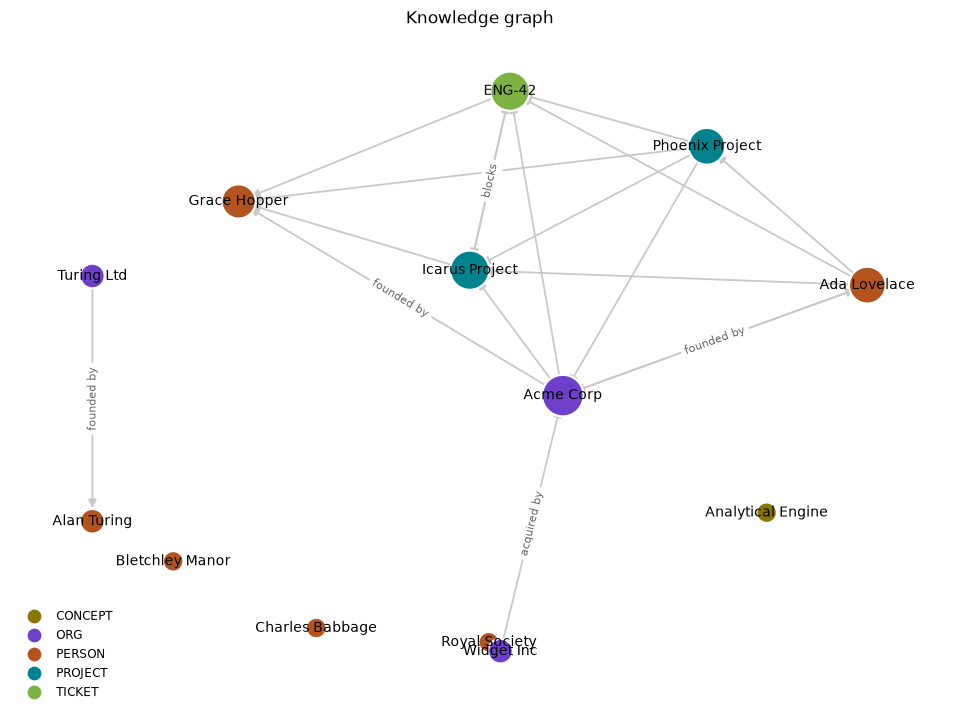
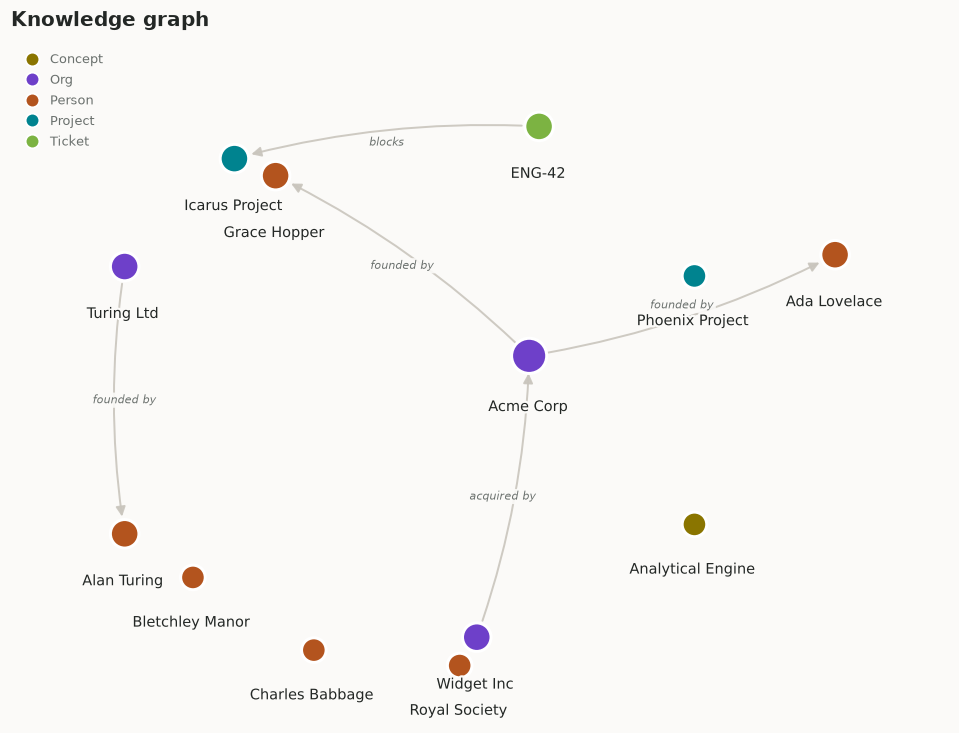
Redesign library plots to publication quality
plot_graph:
- Only typed relations are drawn by default; generic related_to
  co-occurrence edges are excluded from the drawing (include_related=True
  restores them) — they were the grey mesh drowning the signal.
- Curved edges with proper arrowheads; italic predicate labels on a soft
  ground chip; node labels sit below nodes with a paper-color halo and
  greedy collision nudging, never on top of the mark.
- Warm paper background matching the app, left-aligned bold title,
  frameless title-cased legend, comfortable margins.

plot_timeline:
- Year-span annotations at the end of each lifeline (1942–2024).
- Round-capped span lines, paper-ring dots, recessive grid, no spines,
  left-aligned bold title, x padding so annotations never clip.

Both README figures regenerated from the demo vault.

Claude-Session: https://claude.ai/code/session_01QVbxD1gd3gsC6zXKE6L3ya

diff --git a/backend/graphier/api.py b/backend/graphier/api.py
@@ -149,46 +149,103 @@ class VaultSession:
         edge_labels: bool = True,
         seed: int = 7,
         exclude_labels: tuple[str, ...] = ("UNKNOWN", "DATE"),
+        include_related: bool = False,
     ):
         """Draw the knowledge graph. Returns the matplotlib Axes.
 
-        DATE nodes are excluded from the drawing by default (they connect
-        to everything and add clutter, and the timeline plot covers time);
-        pass exclude_labels=("UNKNOWN",) to include them.
+        Defaults are opinionated for legibility: UNKNOWN and DATE nodes and
+        generic co-occurrence ("related_to") edges are excluded from the
+        drawing — the data keeps them; pass exclude_labels=("UNKNOWN",) /
+        include_related=True to draw everything.
         """
         plt = self._plt()
+        import matplotlib.patheffects as pe
         import networkx as nx
 
         g = self.to_networkx(exclude_labels=exclude_labels)
+        if not include_related:
+            g.remove_edges_from(
+                [(u, v) for u, v, d in g.edges(data=True) if d["predicate"] == "related_to"]
+            )
+
         if ax is None:
             _, ax = plt.subplots(figsize=(11, 8))
+        fig = ax.figure
+        fig.set_facecolor("#fbfaf8")
+        ax.set_facecolor("#fbfaf8")
+
         try:
             pos = nx.kamada_kawai_layout(g.to_undirected())
         except Exception:  # disconnected corner cases fall back to spring
             pos = nx.spring_layout(g, seed=seed, k=3.0 / max(1, len(g)) ** 0.5, iterations=200)
+
+        ink, ink_soft, line = "#232725", "#6b716e", "#c9c5bd"
+        halo = [pe.withStroke(linewidth=3, foreground="#fbfaf8")]
+
+        nx.draw_networkx_edges(
+            g, pos, ax=ax, edge_color=line, width=1.3, alpha=0.9,
+            arrows=True, arrowsize=13, arrowstyle="-|>",
+            connectionstyle="arc3,rad=0.08", node_size=520,
+        )
         colors = [label_color(g.nodes[n]["label"]) for n in g]
-        sizes = [180 + 80 * g.degree(n) for n in g]
-        nx.draw_networkx_edges(g, pos, ax=ax, edge_color="#c9c9c9", width=1.2,
-                               arrows=True, arrowsize=11)
-        nx.draw_networkx_nodes(g, pos, ax=ax, node_color=colors, node_size=sizes,
-                               edgecolors="white", linewidths=1.4)
-        nx.draw_networkx_labels(g, pos, ax=ax, font_size=9)
+        sizes = [260 + 90 * g.degree(n) for n in g]
+        nx.draw_networkx_nodes(
+            g, pos, ax=ax, node_color=colors, node_size=sizes,
+            edgecolors="white", linewidths=2.0,
+        )
+
+        # Labels sit below their node with a halo, never on top of it, and
+        # get greedily nudged apart when two would collide.
+        placed: list[tuple[float, float]] = []
+        xs = [p[0] for p in pos.values()]
+        ys = [p[1] for p in pos.values()]
+        span_x = (max(xs) - min(xs)) or 1.0
+        span_y = (max(ys) - min(ys)) or 1.0
+        for node in sorted(g, key=lambda n: -g.degree(n)):
+            x, y = pos[node]
+            ly = y - 0.045 * span_y - (sizes[list(g).index(node)] ** 0.5) * 0.0016 * span_y
+            for px, py in placed:
+                if abs(x - px) < 0.14 * span_x and abs(ly - py) < 0.045 * span_y:
+                    ly = py - 0.05 * span_y
+            placed.append((x, ly))
+            ax.text(
+                x, ly, node, ha="center", va="top", fontsize=9.5, color=ink,
+                path_effects=halo, zorder=6,
+            )
+
         if edge_labels:
-            labels = {(u, v): d["predicate"].replace("_", " ")
-                      for u, v, d in g.edges(data=True) if d["predicate"] != "related_to"}
-            nx.draw_networkx_edge_labels(g, pos, ax=ax, edge_labels=labels,
-                                         font_size=7, font_color="#666666")
+            labels = {
+                (u, v): d["predicate"].replace("_", " ")
+                for u, v, d in g.edges(data=True)
+                if d["predicate"] != "related_to"
+            }
+            texts = nx.draw_networkx_edge_labels(
+                g, pos, ax=ax, edge_labels=labels, font_size=7.5,
+                font_color=ink_soft, rotate=False,
+                bbox={"boxstyle": "round,pad=0.15", "fc": "#fbfaf8", "ec": "none", "alpha": 0.9},
+            )
+            for t in texts.values():
+                t.set_fontstyle("italic")
+
         present = sorted({g.nodes[n]["label"] for n in g})
-        handles = [plt.Line2D([], [], marker="o", linestyle="", color=label_color(l),
-                              label=l, markersize=8) for l in present]
-        ax.legend(handles=handles, loc="lower left", frameon=False, fontsize=8)
+        handles = [
+            plt.Line2D([], [], marker="o", linestyle="", color=label_color(l),
+                       markeredgecolor="white", markeredgewidth=1.2,
+                       label=l.title(), markersize=9)
+            for l in present
+        ]
+        ax.legend(handles=handles, loc="upper left", frameon=False, fontsize=8.5,
+                  labelcolor=ink_soft, handletextpad=0.4, borderaxespad=0.2)
         ax.set_axis_off()
-        ax.set_title("Knowledge graph", fontsize=11)
+        ax.margins(0.10)
+        ax.set_title("Knowledge graph", fontsize=13, color=ink, loc="left",
+                     fontweight="bold", pad=12)
         return ax
 
     def plot_timeline(self, ax=None, max_rows: int = 8):
         """Draw entity lifelines over time. Returns the matplotlib Axes."""
         plt = self._plt()
+        import matplotlib.patheffects as pe
 
         events = self.timeline()
         if not events:
@@ -198,32 +255,50 @@ class VaultSession:
             y, m, d = e["sort_key"]
             return y + (m - 1) / 12 if m else y + 0.5
 
-        rows: dict[tuple[str, str], list[tuple[float, str]]] = {}
+        rows: dict[tuple[str, str], list[float]] = {}
         for e in events:
             for ent in e["entities"]:
-                rows.setdefault((ent["text"], ent["label"]), []).append(
-                    (t_of(e), e["sentence"])
-                )
+                rows.setdefault((ent["text"], ent["label"]), []).append(t_of(e))
         top = sorted(rows.items(), key=lambda kv: -len(kv[1]))[:max_rows]
-        top.sort(key=lambda kv: kv[1][0][0])
+        top.sort(key=lambda kv: kv[1][0])
 
+        ink, ink_soft, grid = "#232725", "#6b716e", "#e7e3db"
         if ax is None:
-            _, ax = plt.subplots(figsize=(10, 0.6 * len(top) + 1.2))
-        for i, ((text, label), points) in enumerate(top):
-            xs = [p[0] for p in points]
+            _, ax = plt.subplots(figsize=(10, 0.62 * len(top) + 1.4))
+        fig = ax.figure
+        fig.set_facecolor("#fbfaf8")
+        ax.set_facecolor("#fbfaf8")
+
+        all_t = [t for _, ts in top for t in ts]
+        pad = max(1.5, (max(all_t) - min(all_t)) * 0.04)
+        x_hi = max(all_t) + pad
+
+        halo = [pe.withStroke(linewidth=3, foreground="#fbfaf8")]
+        for i, ((text, label), ts) in enumerate(top):
             color = label_color(label)
-            if len(xs) > 1:
-                ax.hlines(i, min(xs), max(xs), color=color, alpha=0.35, linewidth=2)
-            ax.scatter(xs, [i] * len(xs), color=color, s=55, zorder=3,
-                       edgecolors="white", linewidths=1.2)
+            if len(ts) > 1:
+                ax.hlines(i, min(ts), max(ts), color=color, alpha=0.30,
+                          linewidth=2.5, capstyle="round")
+            ax.scatter(ts, [i] * len(ts), color=color, s=58, zorder=3,
+                       edgecolors="#fbfaf8", linewidths=1.4)
+            years = sorted({int(t) for t in ts})
+            span = str(years[0]) if len(years) == 1 else f"{years[0]}–{years[-1]}"
+            ax.annotate(span, (max(ts), i), xytext=(9, 0),
+                        textcoords="offset points", va="center", fontsize=7.5,
+                        color=ink_soft, path_effects=halo)
+
         ax.set_yticks(range(len(top)))
-        ax.set_yticklabels([text for (text, _), _ in top], fontsize=9)
+        ax.set_yticklabels([text for (text, _), _ in top], fontsize=9.5, color=ink)
         ax.invert_yaxis()
-        ax.grid(axis="x", color="#e3e0da", linewidth=0.8)
+        ax.set_xlim(min(all_t) - pad, x_hi + pad)
+        ax.grid(axis="x", color=grid, linewidth=0.9)
         ax.set_axisbelow(True)
-        for spine in ("top", "right", "left"):
-            ax.spines[spine].set_visible(False)
-        ax.set_title("Entity lifelines", fontsize=11)
+        ax.tick_params(axis="x", colors=ink_soft, labelsize=8.5, length=0)
+        ax.tick_params(axis="y", length=0)
+        for spine in ax.spines.values():
+            spine.set_visible(False)
+        ax.set_title("Entity lifelines", fontsize=13, color=ink, loc="left",
+                     fontweight="bold", pad=12)
         return ax
 
 
